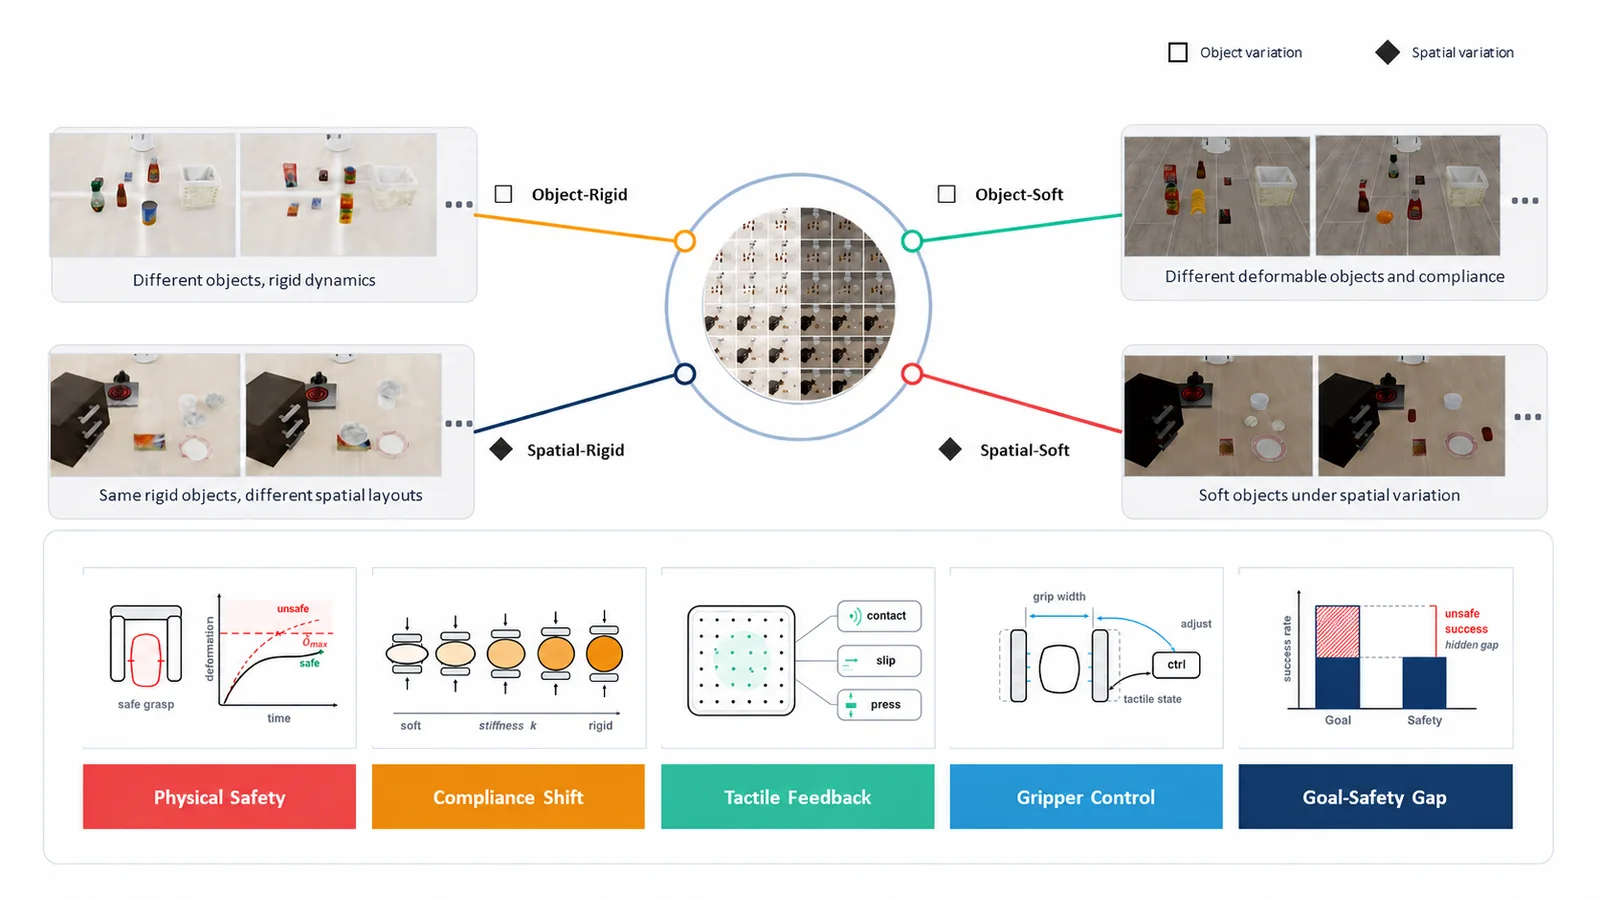
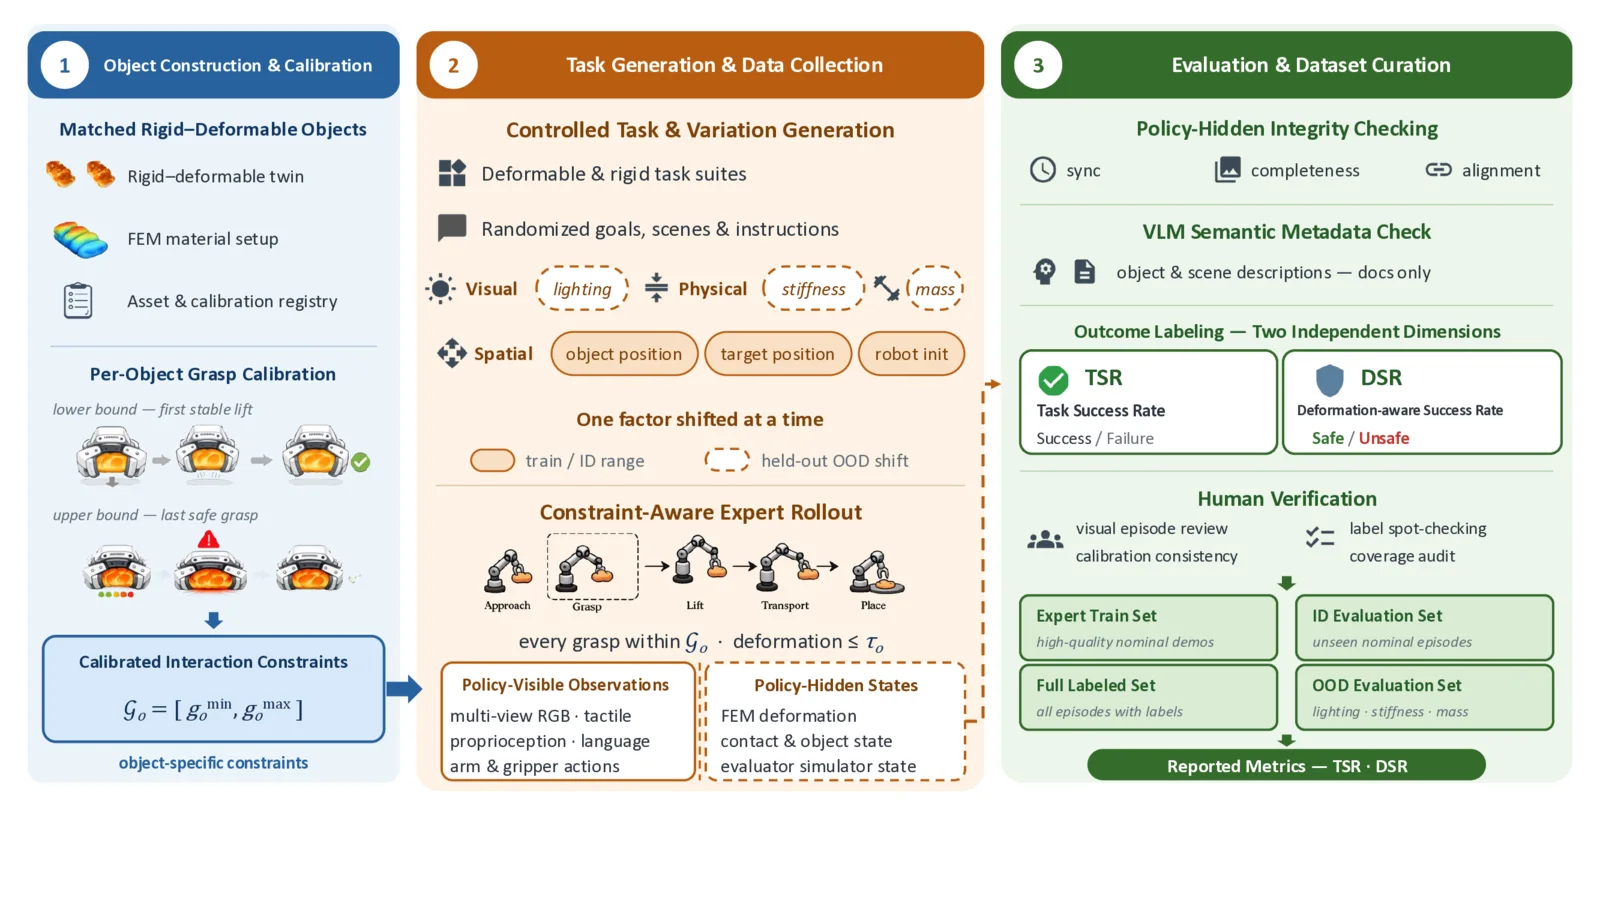
SoftVTBench 全部改以本地 tex 为唯一底本
arXiv 2607.04234 v1 是 Workshop 版，标题为「A Safety-Aware Visuo-Tactile
Benchmark for Physically Constrained Robotic Manipulation of Deformable
Objects」；本地 tex 是后续版本，标题为「A Deformation-Aware Visuo-Tactile
Dataset and Benchmark for Deformable-Object Manipulation」。正文早已按
本地 tex 重写，但配图还混着 Workshop 版，这次清干净。

换掉两张 Workshop 版配图：
- method  ← Figures/SoftVTBench_Figure2.pdf（AAAI 版流程图，右栏是
  TSR / DSR 双维标注，与正文的 DSR 主指标口径一致；旧图是 Workshop 版
  的 Goal / Safety 框架）
- rollouts ← Figures/qualitative_rollouts.pdf，替换原 goal_vs_safety。
  这张是真正的错配：图注是我按 appendix「三个可形变物体、各行独立采样、
  非同初态配对」写的，配的却是 Workshop 版的另一张图

现在五张配图全部来自本地 Figures/：Fig1→teaser、Figure2→method、
tactilergb→tactile、ood_trends_all→ood、qualitative_rollouts→rollouts。
teaser 用的是同目录下拼写正确的 new_fig1.pdf，因为 tex 正文引用的
SoftVTBench_Fig1.pdf 横幅上把 Manipulation 拼成了 Manipuiation。

arXiv 链接与首页 meta 都标上「（Workshop 版）」，收录行的限定从
「早期版本」改为「Workshop 版」—— 否则读者点进 arXiv 会发现标题、
资产数、episode 数与页面全都对不上。

diff --git a/src/versions/legacyProjects.ts b/src/versions/legacyProjects.ts
@@ -1,5 +1,7 @@
 /* 项目详情页内容。全部改写自各项目对应的论文本身，不再取自 GitHub README。
-   - SoftVTBench 取自 arXiv 版 LaTeX 源码（main.tex 与 sec/*.tex）
+   - SoftVTBench 只取自本地 LaTeX 源码（main.tex 与 sec/*.tex），正文、数字与全部
+     配图都来自这一份；arXiv 2607.04234 是更早的 Workshop 版，标题与统计口径都不同，
+     只作为链接出现且已标注版本，不参与正文
    - GaussianDream / CounterScene / ReconDrive 取自各自的 arXiv 全文
    每一个数字、每一张表都逐位回溯到原文的表或章节，未做四舍五入、单位换算或补全。
    论文自陈的 caveat 与 limitation 一并保留 —— 页面宁可短，不要有一个推测出来的数。
@@ -8,7 +10,7 @@ import csIntro from "../assets/projects/counterscene-intro.webp";
 import csMethod from "../assets/projects/counterscene-method.webp";
 import gdFramework from "../assets/projects/gaussiandream.webp";
 import rdFramework from "../assets/projects/recondrive.webp";
-import svGoalSafety from "../assets/projects/softvtbench-goal_vs_safety.webp";
+import svRollouts from "../assets/projects/softvtbench-rollouts.webp";
 import svMethod from "../assets/projects/softvtbench-method.webp";
 import svOod from "../assets/projects/softvtbench-ood.webp";
 import svTactile from "../assets/projects/softvtbench-tactile.webp";
@@ -217,14 +219,17 @@ export const projects: Project[] = [
     tag: "Benchmark",
     date: "2026 年 7 月",
     venue: "ECCVW 2026 Oral",
-    venueNote: "早期版本",
+    venueNote: "Workshop 版",
     authors:
       "Bowen Jing*, Mingxin Wang*, Ruiyang Hao, Chenchen Ge, Hanwen Shen, Junjie He, Yang Cui, Yiming Hou, Weitao Zhou‡, Jiawei Wang, Minglei Li, Dandan Zhang, Ding Zhao, Houde Liu, Xiaofan Li, Si Liu, Ping Luo, Haibao Yu‡（* equal contribution　‡ corresponding author）",
     affiliations:
       "Tuojing Intelligence · Tsinghua University · King's College London · Southeast University · Stevens Institute of Technology · The Hong Kong University of Science and Technology (Guangzhou) · University of Manchester · Simple AI · Imperial College London · Carnegie Mellon University · Zhejiang University · Beihang University · The University of Hong Kong",
     lede: "把策略可见的接触观测与仅评测方可见的有限元物理状态分开记录，用逐物体标定的形变容差定义 Deformation-aware Success Rate（DSR）：一条 rollout 只有既完成任务、又全程未超出形变容差，才算成功。",
     links: [
-      { label: "arXiv 2607.04234", href: "https://arxiv.org/abs/2607.04234" },
+      {
+        label: "arXiv 2607.04234（Workshop 版）",
+        href: "https://arxiv.org/abs/2607.04234",
+      },
       { label: "代码", href: "https://github.com/TuojingAI/SoftVTBench" },
       {
         label: "数据集",
@@ -410,7 +415,7 @@ export const projects: Project[] = [
       {
         kind: "fig",
         fig: {
-          src: svGoalSafety,
+          src: svRollouts,
           caption:
             "三个可形变物体、跨 Object-Soft 与 Spatial-Soft 的示例 rollout，各行独立采样，不是同初始状态的配对比较。全部达成任务成功；蓝色满足标定容差，橙色在抓取阶段越过 R_t=1 并在搬运中持续偏高，最后的放置动作本身执行正确。第三人称与腕部视图难以区分这两类，marker 场与形变曲线可以。",
         },

diff --git a/src/versions/legacyContent.ts b/src/versions/legacyContent.ts
@@ -74,7 +74,7 @@ export const feed: FeedEntry[] = [
     tag: "Benchmark",
     desc: "把「完成任务」和「没有把东西弄坏」合成一个指标来衡量：一条轨迹只有既达成目标、又全程未超出该物体标定的形变容差，才算成功。4,000 条专家演示、40 个任务、四个成对套件、50 个以上资产，每个可形变物体都配一个外观一致的刚体孪生。",
     award: "ECCVW 2026 Oral",
-    meta: "arXiv 2607.04234 · 代码与数据集已开源",
+    meta: "arXiv 2607.04234（Workshop 版）· 代码与数据集已开源",
     href: "https://github.com/TuojingAI/SoftVTBench",
     links: [
       { label: "arXiv", href: "https://arxiv.org/abs/2607.04234" },
